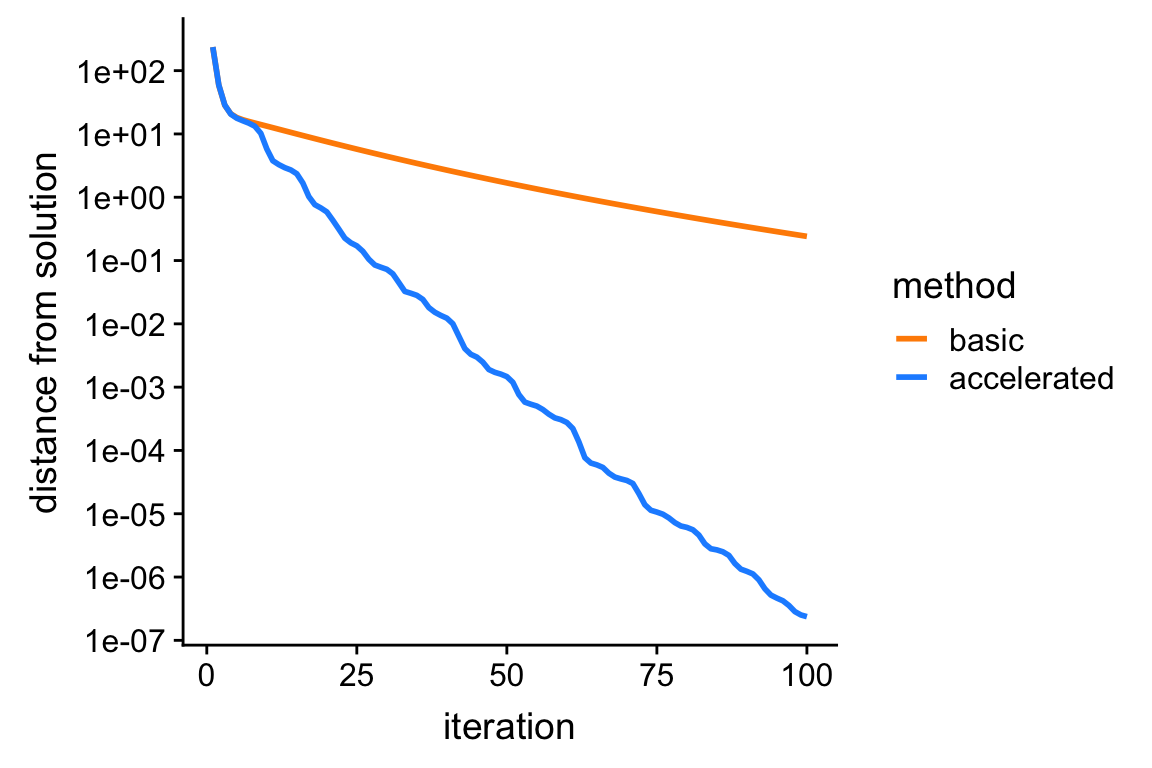
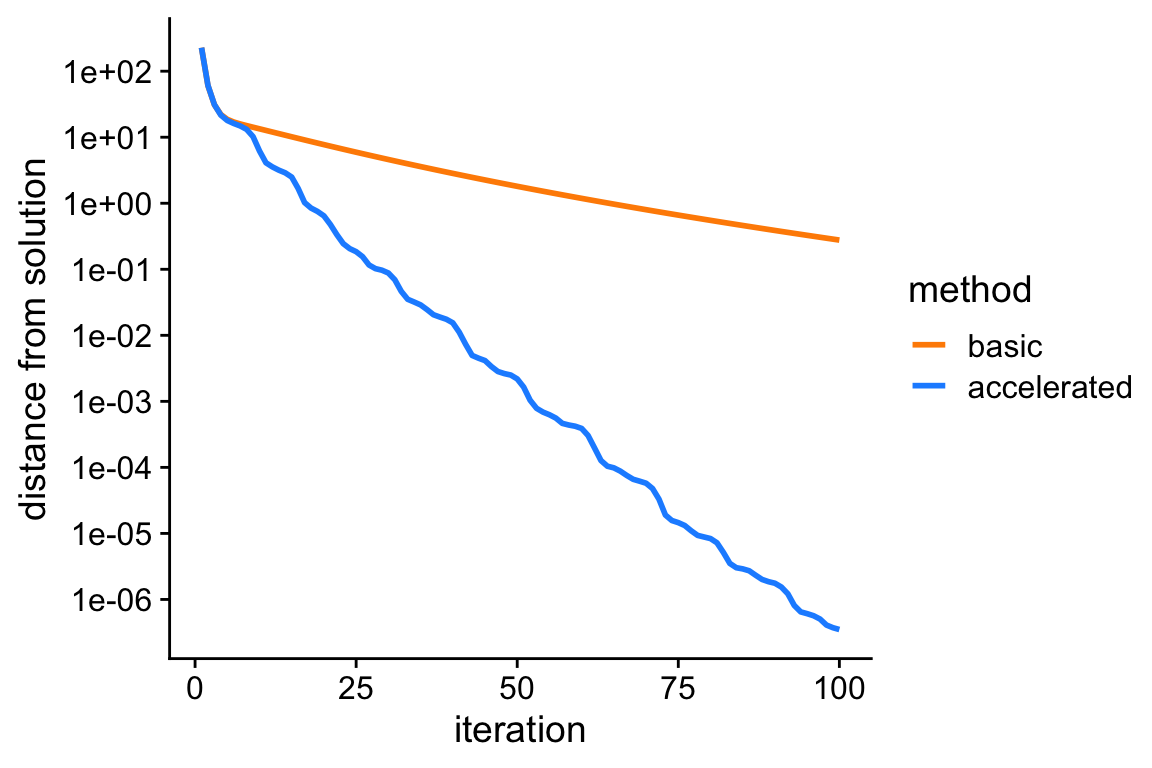
Re-built linreg analysis after a couple small changes to the daarem implementation of the ridge regression model.

diff --git a/docs/linreg.html b/docs/linreg.html
@@ -1,12 +1,12 @@
 <!DOCTYPE html>
 
-<html xmlns="http://www.w3.org/1999/xhtml">
+<html>
 
 <head>
 
 <meta charset="utf-8" />
-<meta http-equiv="Content-Type" content="text/html; charset=utf-8" />
 <meta name="generator" content="pandoc" />
+<meta http-equiv="X-UA-Compatible" content="IE=EDGE" />
 
 
 
@@ -23,6 +23,14 @@
 <script src="site_libs/navigation-1.1/tabsets.js"></script>
 <link href="site_libs/highlightjs-9.12.0/textmate.css" rel="stylesheet" />
 <script src="site_libs/highlightjs-9.12.0/highlight.js"></script>
+
+<link rel="icon" href="https://github.com/workflowr/workflowr-assets/raw/master/img/reproducible.png">
+<!-- Add a small amount of space between sections. -->
+<style type="text/css">
+div.section {
+  padding-top: 12px;
+}
+</style>
 
 <style type="text/css">code{white-space: pre;}</style>
 <style type="text/css">
@@ -84,7 +92,6 @@ code {
 }
 img {
   max-width:100%;
-  height: auto;
 }
 .tabbed-pane {
   padding-top: 12px;
@@ -233,6 +240,7 @@ $(document).ready(function () {
   border: none;
   display: inline-block;
   border-radius: 4px;
+  background-color: transparent;
 }
 
 .tabset-dropdown > .nav-tabs.nav-tabs-open > li {
@@ -244,18 +252,6 @@ $(document).ready(function () {
   display: none;
 }
 </style>
-
-<script>
-$(document).ready(function () {
-  window.buildTabsets("TOC");
-});
-
-$(document).ready(function () {
-  $('.tabset-dropdown > .nav-tabs > li').click(function () {
-    $(this).parent().toggleClass('nav-tabs-open')
-  });
-});
-</script>
 
 <!-- code folding -->
 
@@ -295,13 +291,6 @@ $(document).ready(function () {
   </div><!--/.container -->
 </div><!--/.navbar -->
 
-<!-- Add a small amount of space between sections. -->
-<style type="text/css">
-div.section {
-  padding-top: 12px;
-}
-</style>
-
 <div class="fluid-row" id="header">
 
 
@@ -332,7 +321,7 @@ div.section {
 <div class="tab-content">
 <div id="summary" class="tab-pane fade in active">
 <p>
-<strong>Last updated:</strong> 2019-06-20
+<strong>Last updated:</strong> 2020-05-12
 </p>
 <p>
 <strong>Checks:</strong> <span class="glyphicon glyphicon-ok text-success" aria-hidden="true"></span> 7 <span class="glyphicon glyphicon-exclamation-sign text-danger" aria-hidden="true"></span> 0
@@ -342,7 +331,7 @@ div.section {
 </p>
 <p>
 This reproducible <a href="http://rmarkdown.rstudio.com">R Markdown</a> analysis was created with <a
-  href="https://github.com/jdblischak/workflowr">workflowr</a> (version 1.4.0). The <em>Checks</em> tab describes the reproducibility checks that were applied when the results were created. The <em>Past versions</em> tab lists the development history.
+  href="https://github.com/jdblischak/workflowr">workflowr</a> (version 1.6.1.9000). The <em>Checks</em> tab describes the reproducibility checks that were applied when the results were created. The <em>Past versions</em> tab lists the development history.
 </p>
 <hr>
 </div>
@@ -423,16 +412,24 @@ This reproducible <a href="http://rmarkdown.rstudio.com">R Markdown</a> analysis
 <div class="panel panel-default">
 <div class="panel-heading">
 <p class="panel-title">
-<a data-toggle="collapse" data-parent="#workflowr-checks" href="#strongRepositoryversionstrongahrefhttpsgithubcomstephenslabdaaremtree20a75b6431db6249b502ee8cb8e2c60892c3cea0targetblank20a75b6a"> <span class="glyphicon glyphicon-ok text-success" aria-hidden="true"></span> <strong>Repository version:</strong> <a href="https://github.com/stephenslab/daarem/tree/20a75b6431db6249b502ee8cb8e2c60892c3cea0" target="_blank">20a75b6</a> </a>
+<a data-toggle="collapse" data-parent="#workflowr-checks" href="#strongRepositoryversionstrongahrefhttpsgithubcomstephenslabdaaremtree453b62787b2a1185e2a8539c417ecd2ca7740a9atargetblank453b627a"> <span class="glyphicon glyphicon-ok text-success" aria-hidden="true"></span> <strong>Repository version:</strong> <a href="https://github.com/stephenslab/daarem/tree/453b62787b2a1185e2a8539c417ecd2ca7740a9a" target="_blank">453b627</a> </a>
 </p>
 </div>
[2 lines of base64/hex data omitted]
 <div class="panel-body">
 <p>
-Great! You are using Git for version control. Tracking code development and connecting the code version to the results is critical for reproducibility. The version displayed above was the version of the Git repository at the time these results were generated. <br><br> Note that you need to be careful to ensure that all relevant files for the analysis have been committed to Git prior to generating the results (you can use <code>wflow_publish</code> or <code>wflow_git_commit</code>). workflowr only checks the R Markdown file, but you know if there are other scripts or data files that it depends on. Below is the status of the Git repository when the results were generated:
+Great! You are using Git for version control. Tracking code development and connecting the code version to the results is critical for reproducibility.
+</p>
+<p>
+The results in this page were generated with repository version <a href="https://github.com/stephenslab/daarem/tree/453b62787b2a1185e2a8539c417ecd2ca7740a9a" target="_blank">453b627</a>. See the <em>Past versions</em> tab to see a history of the changes made to the R Markdown and HTML files.
+</p>
+<p>
+Note that you need to be careful to ensure that all relevant files for the analysis have been committed to Git prior to generating the results (you can use <code>wflow_publish</code> or <code>wflow_git_commit</code>). workflowr only checks the R Markdown file, but you know if there are other scripts or data files that it depends on. Below is the status of the Git repository when the results were generated:
 </p>
 <pre><code>
-working directory clean
+Unstaged changes:
+    Modified:   code/ridge.R
+
 </code></pre>
 <p>
 Note that any generated files, e.g. HTML, png, CSS, etc., are not included in this status report because it is ok for generated content to have uncommitted changes.
@@ -446,7 +443,7 @@ Note that any generated files, e.g. HTML, png, CSS, etc., are not included in t
 <div id="versions" class="tab-pane fade">
 
 <p>
-These are the previous versions of the R Markdown and HTML files. If you’ve configured a remote Git repository (see <code>?wflow_git_remote</code>), click on the hyperlinks in the table below to view them.
+These are the previous versions of the repository in which changes were made to the R Markdown (<code>analysis/linreg.Rmd</code>) and HTML (<code>docs/linreg.html</code>) files. If you’ve configured a remote Git repository (see <code>?wflow_git_remote</code>), click on the hyperlinks in the table below to view the files as they were in that past version.
 </p>
 <div class="table-responsive">
 <table class="table table-condensed table-hover">
@@ -475,6 +472,40 @@ Message
 Rmd
 </td>
 <td>
+<a href="https://github.com/stephenslab/daarem/blob/453b62787b2a1185e2a8539c417ecd2ca7740a9a/analysis/linreg.Rmd" target="_blank">453b627</a>
+</td>
+<td>
+Peter Carbonetto
+</td>
+<td>
+2020-05-12
+</td>
+<td>
+wflow_publish(“linreg.Rmd”)
+</td>
+</tr>
+<tr>
+<td>
+html
+</td>
+<td>
+<a href="https://rawcdn.githack.com/stephenslab/daarem/0279af90ee61757a750384d3cd8761f1c531e569/docs/linreg.html" target="_blank">0279af9</a>
+</td>
+<td>
+Peter Carbonetto
+</td>
+<td>
+2019-06-20
+</td>
+<td>
+Revised text in linreg analysis.
+</td>
+</tr>
+<tr>
+<td>
+Rmd
+</td>
+<td>
 <a href="https://github.com/stephenslab/daarem/blob/20a75b6431db6249b502ee8cb8e2c60892c3cea0/analysis/linreg.Rmd" target="_blank">20a75b6</a>
 </td>
 <td>
@@ -485,6 +516,23 @@ Peter Carbonetto
 </td>
 <td>
 wflow_publish(“linreg.Rmd”)
+</td>
+</tr>
+<tr>
+<td>
+html
+</td>
+<td>
+<a href="https://rawcdn.githack.com/stephenslab/daarem/a82f29e53aacfd484fd7ed2a24d612277189f106/docs/linreg.html" target="_blank">a82f29e</a>
+</td>
+<td>
+Peter Carbonetto
+</td>
+<td>
+2019-06-20
+</td>
+<td>
+Adjusted fig. dimensions in linreg analysis.
 </td>
 </tr>
 <tr>
@@ -502,6 +550,23 @@ Peter Carbonetto
 </td>
 <td>
 wflow_publish(“linreg.Rmd”)
+</td>
+</tr>
+<tr>
+<td>
+html
+</td>
+<td>
+<a href="https://rawcdn.githack.com/stephenslab/daarem/3a81027e9959d8e50048180888e8dd18f32031fe/docs/linreg.html" target="_blank">3a81027</a>
+</td>
+<td>
+Peter Carbonetto
+</td>
+<td>
+2019-06-20
+</td>
+<td>
+Re-ran wflow_publish(“linreg.Rmd”) after (small) changes to mr_ash code.
 </td>
 </tr>
 <tr>
@@ -616,6 +681,7 @@ se &lt;- 4</code></pre>
 library(daarem)
 library(ggplot2)
 library(cowplot)
+theme_set(theme_cowplot())
 source(&quot;../code/misc.R&quot;)
 source(&quot;../code/datasim.R&quot;)
 source(&quot;../code/ridge.R&quot;)
@@ -645,8 +711,9 @@ y &lt;- y - mean(y)</code></pre>
 f1  &lt;- ridge.objective(X,y,fit1$b,s0)
 cat(sprintf(&quot;Computation took %0.2f seconds.\n&quot;,out[&quot;elapsed&quot;]))
 cat(sprintf(&quot;Objective value at solution is %0.12f.\n&quot;,f1))
-# Computation took 0.55 seconds.
-# Objective value at solution is -20.573760535831.</code></pre>
+# blah = 0 
+# Computation took 0.39 seconds.
+# Objective value at solution is -22.515798678253.</code></pre>
 </div>
 <div id="run-accelerated-co-ordinate-ascent-updates" class="section level2">
 <h2>Run accelerated co-ordinate ascent updates</h2>
@@ -655,8 +722,8 @@ cat(sprintf(&quot;Objective value at solution is %0.12f.\n&quot;,f1))
 f2  &lt;- ridge.objective(X,y,fit2$b,s0)
 cat(sprintf(&quot;Computation took %0.2f seconds.\n&quot;,out[&quot;elapsed&quot;]))
 cat(sprintf(&quot;Objective value at solution is %0.12f.\n&quot;,f2))
-# Computation took 0.63 seconds.
-# Objective value at solution is -20.332771749786.</code></pre>
+# Computation took 0.37 seconds.
+# Objective value at solution is -22.238771667148.</code></pre>
 <p>We see that the DAAREM solution is better (it has a higher posterior value).</p>
 </div>
 <div id="plot-improvement-in-solution-over-time" class="section level2">
@@ -726,14 +793,14 @@ w  &lt;- c(0.5,0.25,0.25)</code></pre>
 <p>Fit the mr-ash model by running 200 iterations of the basic co-ordinate ascent updates.</p>
 <pre class="r"><code>out &lt;- system.time(fit3 &lt;- mr_ash(X,y,b0,se,s0,w,numiter = 100))
 cat(sprintf(&quot;Computation took %0.2f seconds.\n&quot;,out[&quot;elapsed&quot;]))
-# Computation took 1.19 seconds.</code></pre>
+# Computation took 1.42 seconds.</code></pre>
 </div>
 <div id="run-accelerated-mr-ash-co-ordinate-ascent-updates" class="section level2">
 <h2>Run accelerated mr-ash co-ordinate ascent updates</h2>
 <p>Fit the mr-ash model again, this time using DAAREM to speed up the co-ordinate ascent updates.</p>
 <pre class="r"><code>out &lt;- system.time(fit4 &lt;- daar_mr_ash(X,y,b0,se,s0,w,numiter = 100))
 cat(sprintf(&quot;Computation took %0.2f seconds.\n&quot;,out[&quot;elapsed&quot;]))
-# Computation took 1.35 seconds.</code></pre>
+# Computation took 1.30 seconds.</code></pre>
 <p>Like the plot above, this plot shows the improvement in the solution over time for the basic and accelated mr-ash co-ordinate ascent algorithms. Both algorithms end up at the same solution. But the “accelerated” version indeed arrives at the solution much more quickly, whereas the basic algorithm gets “stuck” for many iterations.</p>
 <pre class="r"><code>f    &lt;- max(c(fit3$value,fit4$value)) + 1e-8
 pdat &lt;- 
@@ -770,6 +837,17 @@ Date
 <tbody>
 <tr>
 <td>
+<a href="https://github.com/stephenslab/daarem/blob/a82f29e53aacfd484fd7ed2a24d612277189f106/docs/figure/linreg.Rmd/plot-iter-vs-mr-ash-objective-1.png" target="_blank">a82f29e</a>
+</td>
+<td>
+Peter Carbonetto
+</td>
+<td>
+2019-06-20
+</td>
+</tr>
+<tr>
+<td>
 <a href="https://github.com/stephenslab/daarem/blob/639fe742e6ad7203551531166c1cffb3ef77ff77/docs/figure/linreg.Rmd/plot-iter-vs-mr-ash-objective-1.png" target="_blank">639fe74</a>
 </td>
 <td>
@@ -791,13 +869,13 @@ Peter Carbonetto
 </p>
 <div id="workflowr-sessioninfo" class="collapse">
 <pre class="r"><code>sessionInfo()
-# R version 3.4.3 (2017-11-30)
+# R version 3.6.2 (2019-12-12)
 # Platform: x86_64-apple-darwin15.6.0 (64-bit)
-# Running under: macOS High Sierra 10.13.6
+# Running under: macOS Catalina 10.15.4
 # 
 # Matrix products: default
-# BLAS: /Library/Frameworks/R.framework/Versions/3.4/Resources/lib/libRblas.0.dylib
-# LAPACK: /Library/Frameworks/R.framework/Versions/3.4/Resources/lib/libRlapack.dylib
+# BLAS:   /Library/Frameworks/R.framework/Versions/3.6/Resources/lib/libRblas.0.dylib
+# LAPACK: /Library/Frameworks/R.framework/Versions/3.6/Resources/lib/libRlapack.dylib
 # 
 # locale:
 # [1] en_US.UTF-8/en_US.UTF-8/en_US.UTF-8/C/en_US.UTF-8/en_US.UTF-8
@@ -806,22 +884,23 @@ Peter Carbonetto
 # [1] stats     graphics  grDevices utils     datasets  methods   base     
 # 
 # other attached packages:
-# [1] cowplot_0.9.4 ggplot2_3.1.0 daarem_0.3    MASS_7.3-48  
+# [1] cowplot_1.0.0 ggplot2_3.3.0 daarem_0.4.1  MASS_7.3-51.4
 # 
 # loaded via a namespace (and not attached):
-#  [1] Rcpp_1.0.1        compiler_3.4.3    pillar_1.3.1     
-#  [4] git2r_0.25.2.9008 plyr_1.8.4        workflowr_1.4.0  
-#  [7] tools_3.4.3       digest_0.6.18     evaluate_0.13    
-# [10] tibble_2.1.1      gtable_0.2.0      pkgconfig_2.0.2  
-# [13] rlang_0.3.1       yaml_2.2.0        xfun_0.7         
-# [16] withr_2.1.2.9000  stringr_1.4.0     dplyr_0.8.0.1    
-# [19] knitr_1.23        fs_1.2.7          rprojroot_1.3-2  
-# [22] grid_3.4.3        tidyselect_0.2.5  glue_1.3.1       
-# [25] R6_2.4.0          rmarkdown_1.13    purrr_0.2.5      
-# [28] magrittr_1.5      whisker_0.3-2     backports_1.1.2  
-# [31] scales_0.5.0      htmltools_0.3.6   assertthat_0.2.0 
-# [34] colorspace_1.4-0  labeling_0.3      stringi_1.4.3    
-# [37] lazyeval_0.2.1    munsell_0.4.3     crayon_1.3.4</code></pre>
+#  [1] Rcpp_1.0.3           compiler_3.6.2       pillar_1.4.3        
+#  [4] later_1.0.0          git2r_0.26.1         workflowr_1.6.1.9000
+#  [7] tools_3.6.2          digest_0.6.23        evaluate_0.14       
+# [10] lifecycle_0.1.0      tibble_2.1.3         gtable_0.3.0        
+# [13] pkgconfig_2.0.3      rlang_0.4.5          yaml_2.2.0          
+# [16] xfun_0.11            withr_2.1.2          stringr_1.4.0       
+# [19] dplyr_0.8.3          knitr_1.26           fs_1.3.1            
+# [22] rprojroot_1.3-2      grid_3.6.2           tidyselect_0.2.5    
+# [25] glue_1.3.1           R6_2.4.1             rmarkdown_2.0       
+# [28] farver_2.0.1         purrr_0.3.3          magrittr_1.5        
+# [31] whisker_0.4          backports_1.1.5      scales_1.1.0        
+# [34] promises_1.1.0       htmltools_0.4.0      assertthat_0.2.1    
+# [37] colorspace_1.4-1     httpuv_1.5.2         labeling_0.3        
+# [40] stringi_1.4.3        munsell_0.5.0        crayon_1.3.4</code></pre>
 </div>
 </div>
 
@@ -854,6 +933,23 @@ $(document).ready(function () {
 
 
 </script>
+
+<!-- tabsets -->
+
+<script>
+$(document).ready(function () {
+  window.buildTabsets("TOC");
+});
+
+$(document).ready(function () {
+  $('.tabset-dropdown > .nav-tabs > li').click(function () {
+    $(this).parent().toggleClass('nav-tabs-open')
+  });
+});
+</script>
+
+<!-- code folding -->
+
 
 <!-- dynamically load mathjax for compatibility with self-contained -->
 <script>

diff --git a/docs/site_libs/navigation-1.1/codefolding.js b/docs/site_libs/navigation-1.1/codefolding.js
@@ -22,7 +22,7 @@ window.initializeCodeFolding = function(show) {
 
     // create a collapsable div to wrap the code in
     var div = $('<div class="collapse r-code-collapse"></div>');
-    if (show)
+    if (show || $(this)[0].classList.contains('fold-show'))
       div.addClass('in');
     var id = 'rcode-643E0F36' + currentIndex++;
     div.attr('id', id);
